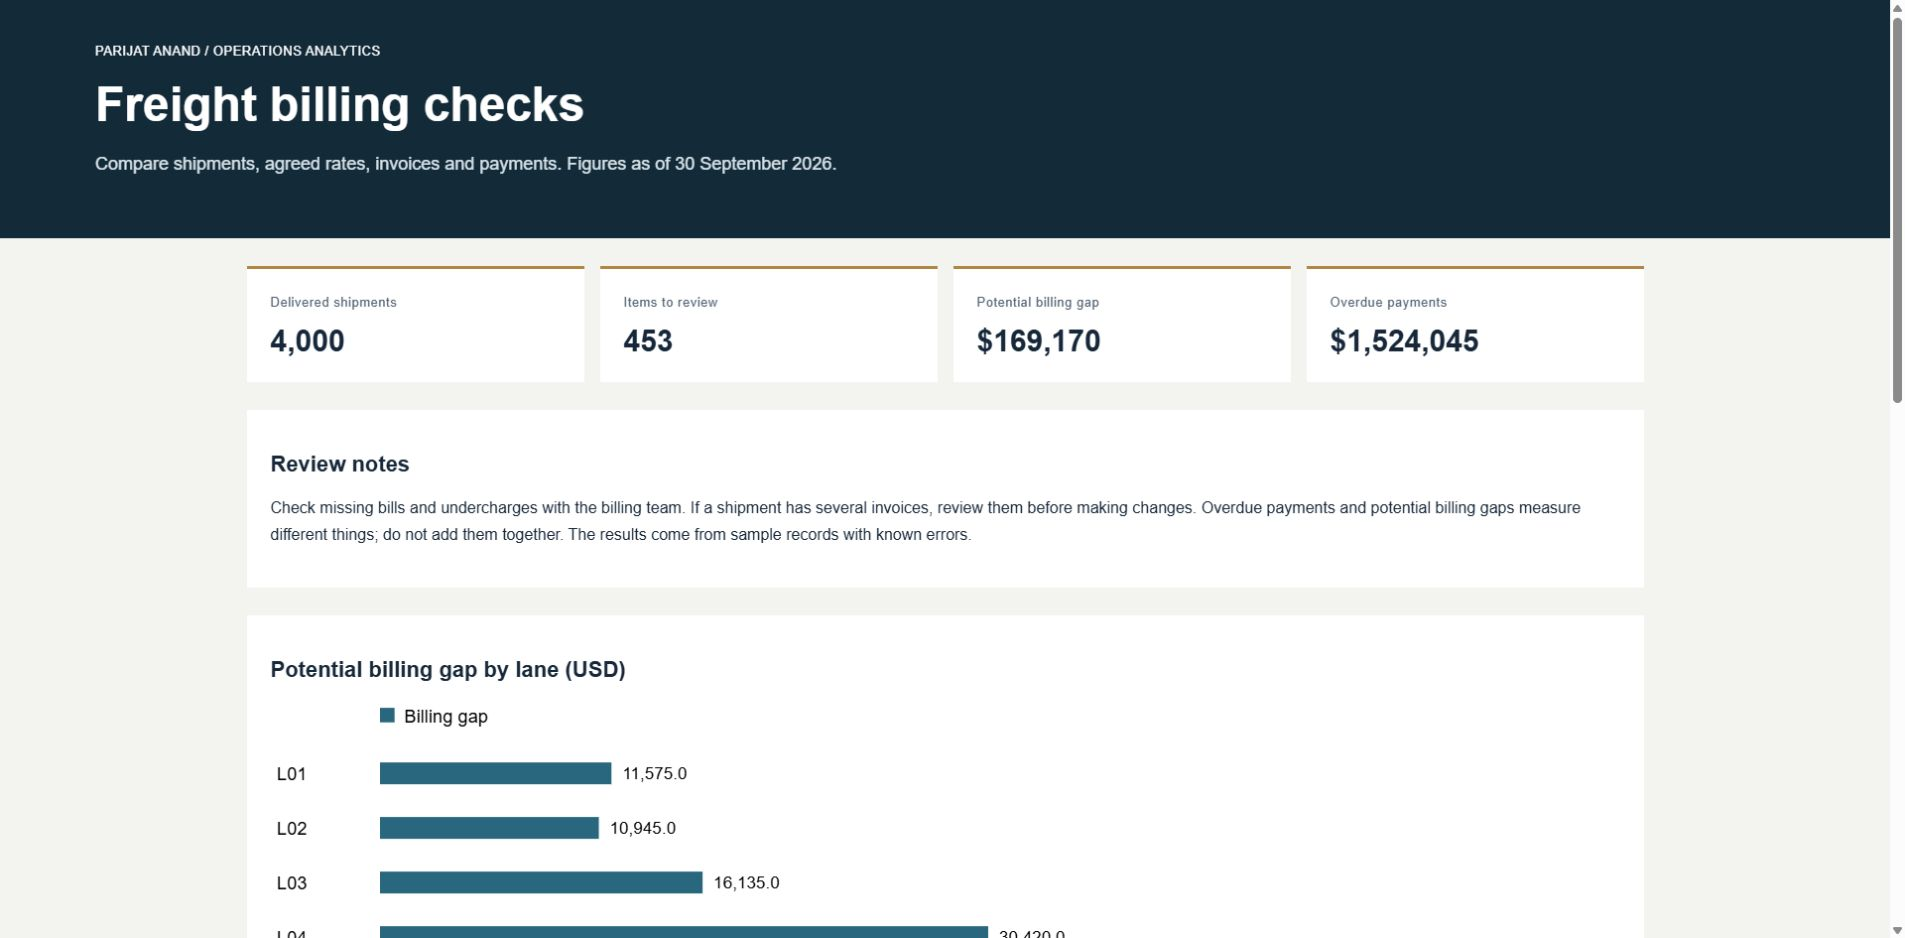
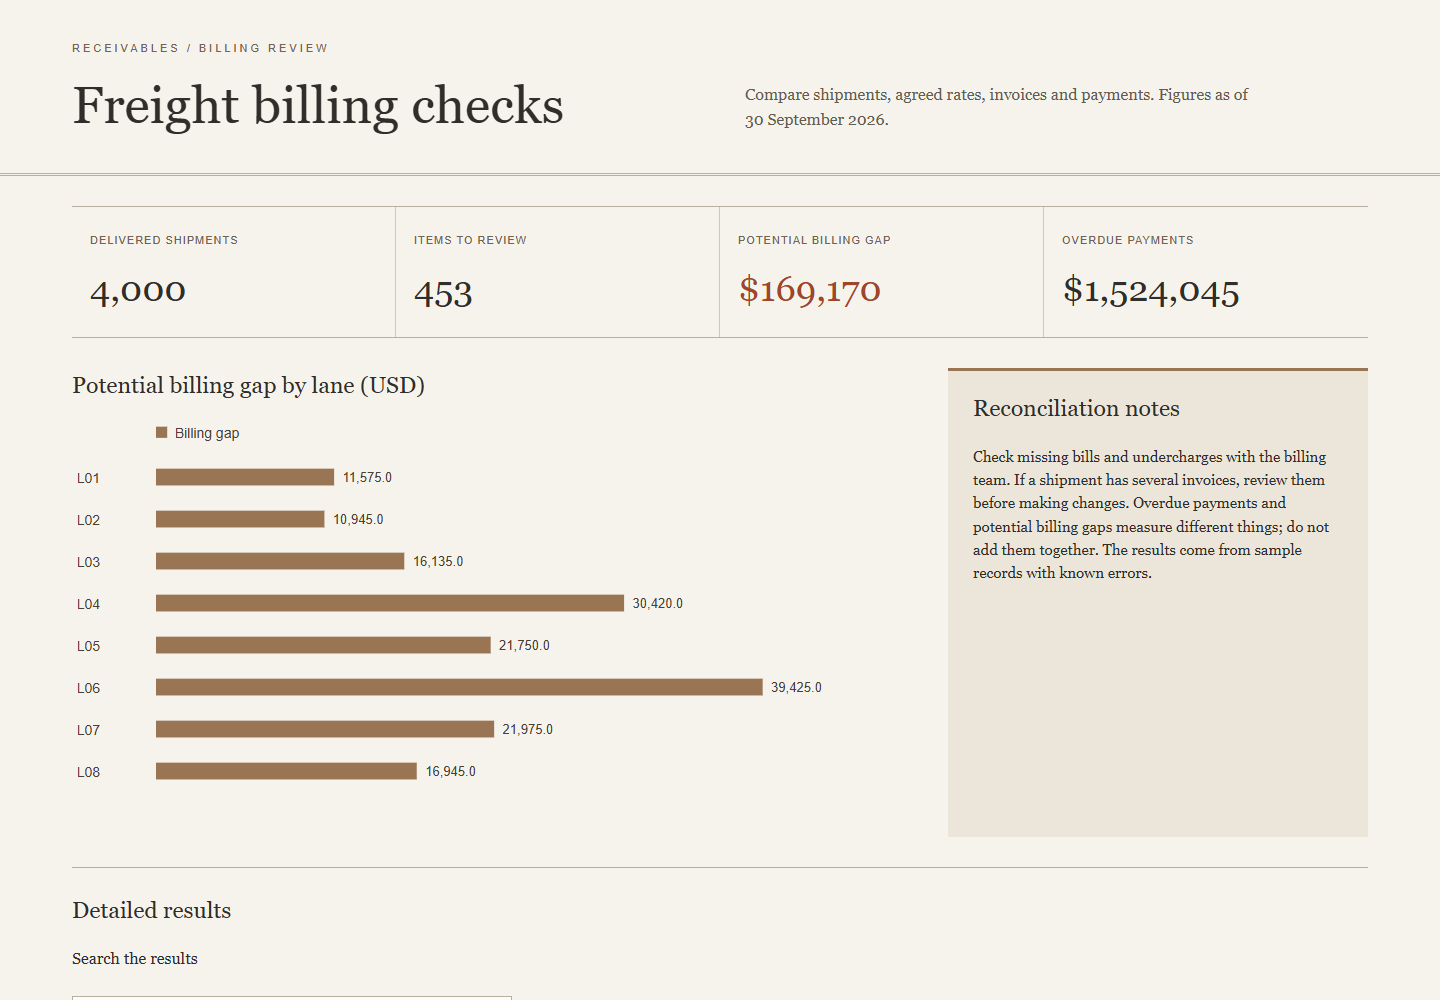
Give project report its own visual layout and screenshot

diff --git a/report.css b/report.css
@@ -1,0 +1,1 @@
+*{box-sizing:border-box}body{margin:0;background:#f6f3ed;color:#302e2b;font:16px/1.55 Georgia,serif}header{padding:42px 5vw 24px;border-bottom:3px double #b7afa2;display:grid;grid-template-columns:1fr 1fr;gap:8px 50px}header small{grid-column:1/-1;letter-spacing:3px;font:11px Arial;color:#78634e}h1{font-size:52px;line-height:1.05;font-weight:400;margin:16px 0}header p{max-width:520px;align-self:end;color:#635c51}main{max-width:1500px;margin:auto;padding:30px 5vw}.cards{display:grid;grid-template-columns:repeat(4,1fr);border-block:1px solid #b7afa2;margin-bottom:30px}.cards article{padding:20px 18px;border-right:1px solid #cfc7ba}.cards article:last-child{border:0}.cards small{font:11px Arial;text-transform:uppercase;letter-spacing:1px;color:#726451}.cards strong{display:block;font-size:36px;font-weight:400;margin-top:10px}.cards article:nth-child(3){color:#9f4529}.overview{display:grid;grid-template-columns:2fr 1fr;gap:36px}.overview>section{min-width:0}.notes{padding:20px 25px;background:#ece6da;border-top:3px solid #997554;font-size:15px}h2{font-size:23px;font-weight:400;margin:0 0 18px}.results{margin-top:30px;border-top:1px solid #b7afa2;padding-top:25px}input{font:14px Arial;padding:12px;border:1px solid #b7afa2;background:#fffcf7;width:min(440px,100%)}.scroll{overflow:auto;max-height:520px}table{border-collapse:collapse;width:100%;font:13px/1.5 Arial}td,th{padding:12px;border-bottom:1px solid #d9d1c4;text-align:left;white-space:nowrap}th{background:#e8e0d2;position:sticky;top:0;text-transform:capitalize}tr:hover{background:#eee6d8}.count,footer{font:12px Arial;color:#685e51}footer{padding:25px 5vw;border-top:1px solid #b7afa2}svg{display:block}svg text{fill:#4a4034;font-family:Arial}a{color:inherit}@media(max-width:760px){header,.overview{grid-template-columns:1fr}h1{font-size:36px}.cards{grid-template-columns:1fr 1fr}.cards strong{font-size:26px}.notes{margin-top:20px}}

diff --git a/report.py b/report.py
@@ -14,12 +14,12 @@ def render(path, title, subtitle, metrics, rows, narrative, chart=""):
     )
     headers = "".join(f'<th>{escape(k.replace("_", " "))}</th>' for k in fields)
     html = """<!doctype html><html lang="en"><meta charset="utf-8"><meta name="viewport" content="width=device-width,initial-scale=1">
-    <title>TITLE</title><style>
-    :root{font-family:Arial,sans-serif;color:#17283a;background:#f3f4f0}*{box-sizing:border-box}body{margin:0}header{padding:42px 5vw;background:#132a39;color:#fff}header p{color:#d7e3e9;max-width:900px;line-height:1.6;font-size:18px}h1{font-size:clamp(30px,4vw,48px);margin:18px 0}small{font-size:13px;letter-spacing:.04em}main{padding:28px 5vw;max-width:1600px;margin:auto}.cards{display:grid;grid-template-columns:repeat(auto-fit,minmax(190px,1fr));gap:16px}article{background:white;padding:24px;border-top:3px solid #b28743}article small{color:#526273}strong{display:block;font-size:30px;margin-top:14px}section{margin-top:28px;background:white;padding:24px}h2{font-size:22px}p{line-height:1.65}input{padding:13px;font-size:16px;border:1px solid #9babb6;width:min(100%,500px)}.scroll{overflow:auto;margin-top:22px;max-height:560px}table{border-collapse:collapse;width:100%;font-size:15px}th{position:sticky;top:0;background:#e8eef0;text-align:left;text-transform:capitalize}td,th{padding:13px 16px;border-bottom:1px solid #e4e8e9;white-space:nowrap}tr:hover{background:#f7f4ed}footer{padding:25px 5vw;color:#536272;font-size:14px}.count{color:#536272;font-size:14px}</style>
-    <header><small>PARIJAT ANAND / OPERATIONS ANALYTICS</small><h1>TITLE</h1><p>SUBTITLE</p></header>
-    <main><div class="cards">CARDS</div><section><h2>Review notes</h2><p>NARRATIVE</p></section>CHART<section><h2>Detailed results</h2><label for="filter">Search the results</label><br><br><input id="filter" placeholder="Enter a lane, record ID or status"><p class="count" id="count"></p><div class="scroll"><table><thead><tr>HEADERS</tr></thead><tbody id="rows"></tbody></table></div></section></main><footer>Sample data. Rebuild this report with python run.py.</footer>
+    <title>TITLE</title><style>STYLES</style>
+    <header><small>RECEIVABLES / BILLING REVIEW</small><h1>TITLE</h1><p>SUBTITLE</p></header>
+    <main><div class="cards">CARDS</div><div class="overview">CHART<section class="notes"><h2>Reconciliation notes</h2><p>NARRATIVE</p></section></div><section class="results"><h2>Detailed results</h2><label for="filter">Search the results</label><br><br><input id="filter" placeholder="Enter a lane, record ID or status"><p class="count" id="count"></p><div class="scroll"><table><thead><tr>HEADERS</tr></thead><tbody id="rows"></tbody></table></div></section></main><footer>Sample data. Rebuild this report with python run.py.</footer>
     <script>const data=PAYLOAD,fields=FIELDS;const body=document.getElementById('rows');function draw(){const q=document.getElementById('filter').value.toLowerCase();const filtered=data.filter(r=>Object.values(r).some(v=>String(v).toLowerCase().includes(q)));body.replaceChildren();for(const row of filtered.slice(0,500)){const tr=document.createElement('tr');for(const field of fields){const td=document.createElement('td');td.textContent=row[field];tr.appendChild(td)}body.appendChild(tr)}document.getElementById('count').textContent=filtered.length+' matching records'+(filtered.length>500?' (first 500 shown)':'')}document.getElementById('filter').addEventListener('input',draw);draw();</script></html>"""
     for key, value in [
+        ("STYLES", Path(__file__).with_name("report.css").read_text(encoding="utf-8")),
         ("SUBTITLE", escape(subtitle)),
         ("TITLE", escape(title)),
         ("CARDS", cards),
@@ -38,9 +38,9 @@ def comparison_chart(title, labels, series):
     width, left, plot = 900, 90, 650
     height = 85 + len(labels) * (len(series) * 25 + 20)
     maximum = max((value for _, values in series for value in values), default=1) or 1
-    colors = ["#28677d", "#b78a40"]
+    colors = ["#997554", "#9f4529"]
     parts = [
-        f'<section><h2>{escape(title)}</h2><svg role="img" aria-label="{escape(title)}" viewBox="0 0 {width} {height}" style="width:100%;max-width:1100px">'
+        f'<section class="chart-panel"><h2>{escape(title)}</h2><svg role="img" aria-label="{escape(title)}" viewBox="0 0 {width} {height}" style="width:100%;max-width:1100px">'
     ]
     for j, (name, _) in enumerate(series):
         parts.append(

diff --git a/README.md b/README.md
@@ -4,6 +4,10 @@ Checks whether completed shipments have been billed correctly and which invoices
 
 For each shipment, the report compares the agreed rate, the invoice and the payments received. It puts differences in a list that a billing team can review.
 
+## Billing review desk
+
+A ledger-style view of shipment charges and receivables, with lane-level exceptions and a searchable review list.
+
 ![Billing report showing amounts to check](docs/preview.png)
 
 [Open the sample report](https://parijat9.github.io/reports/revenue.html)
